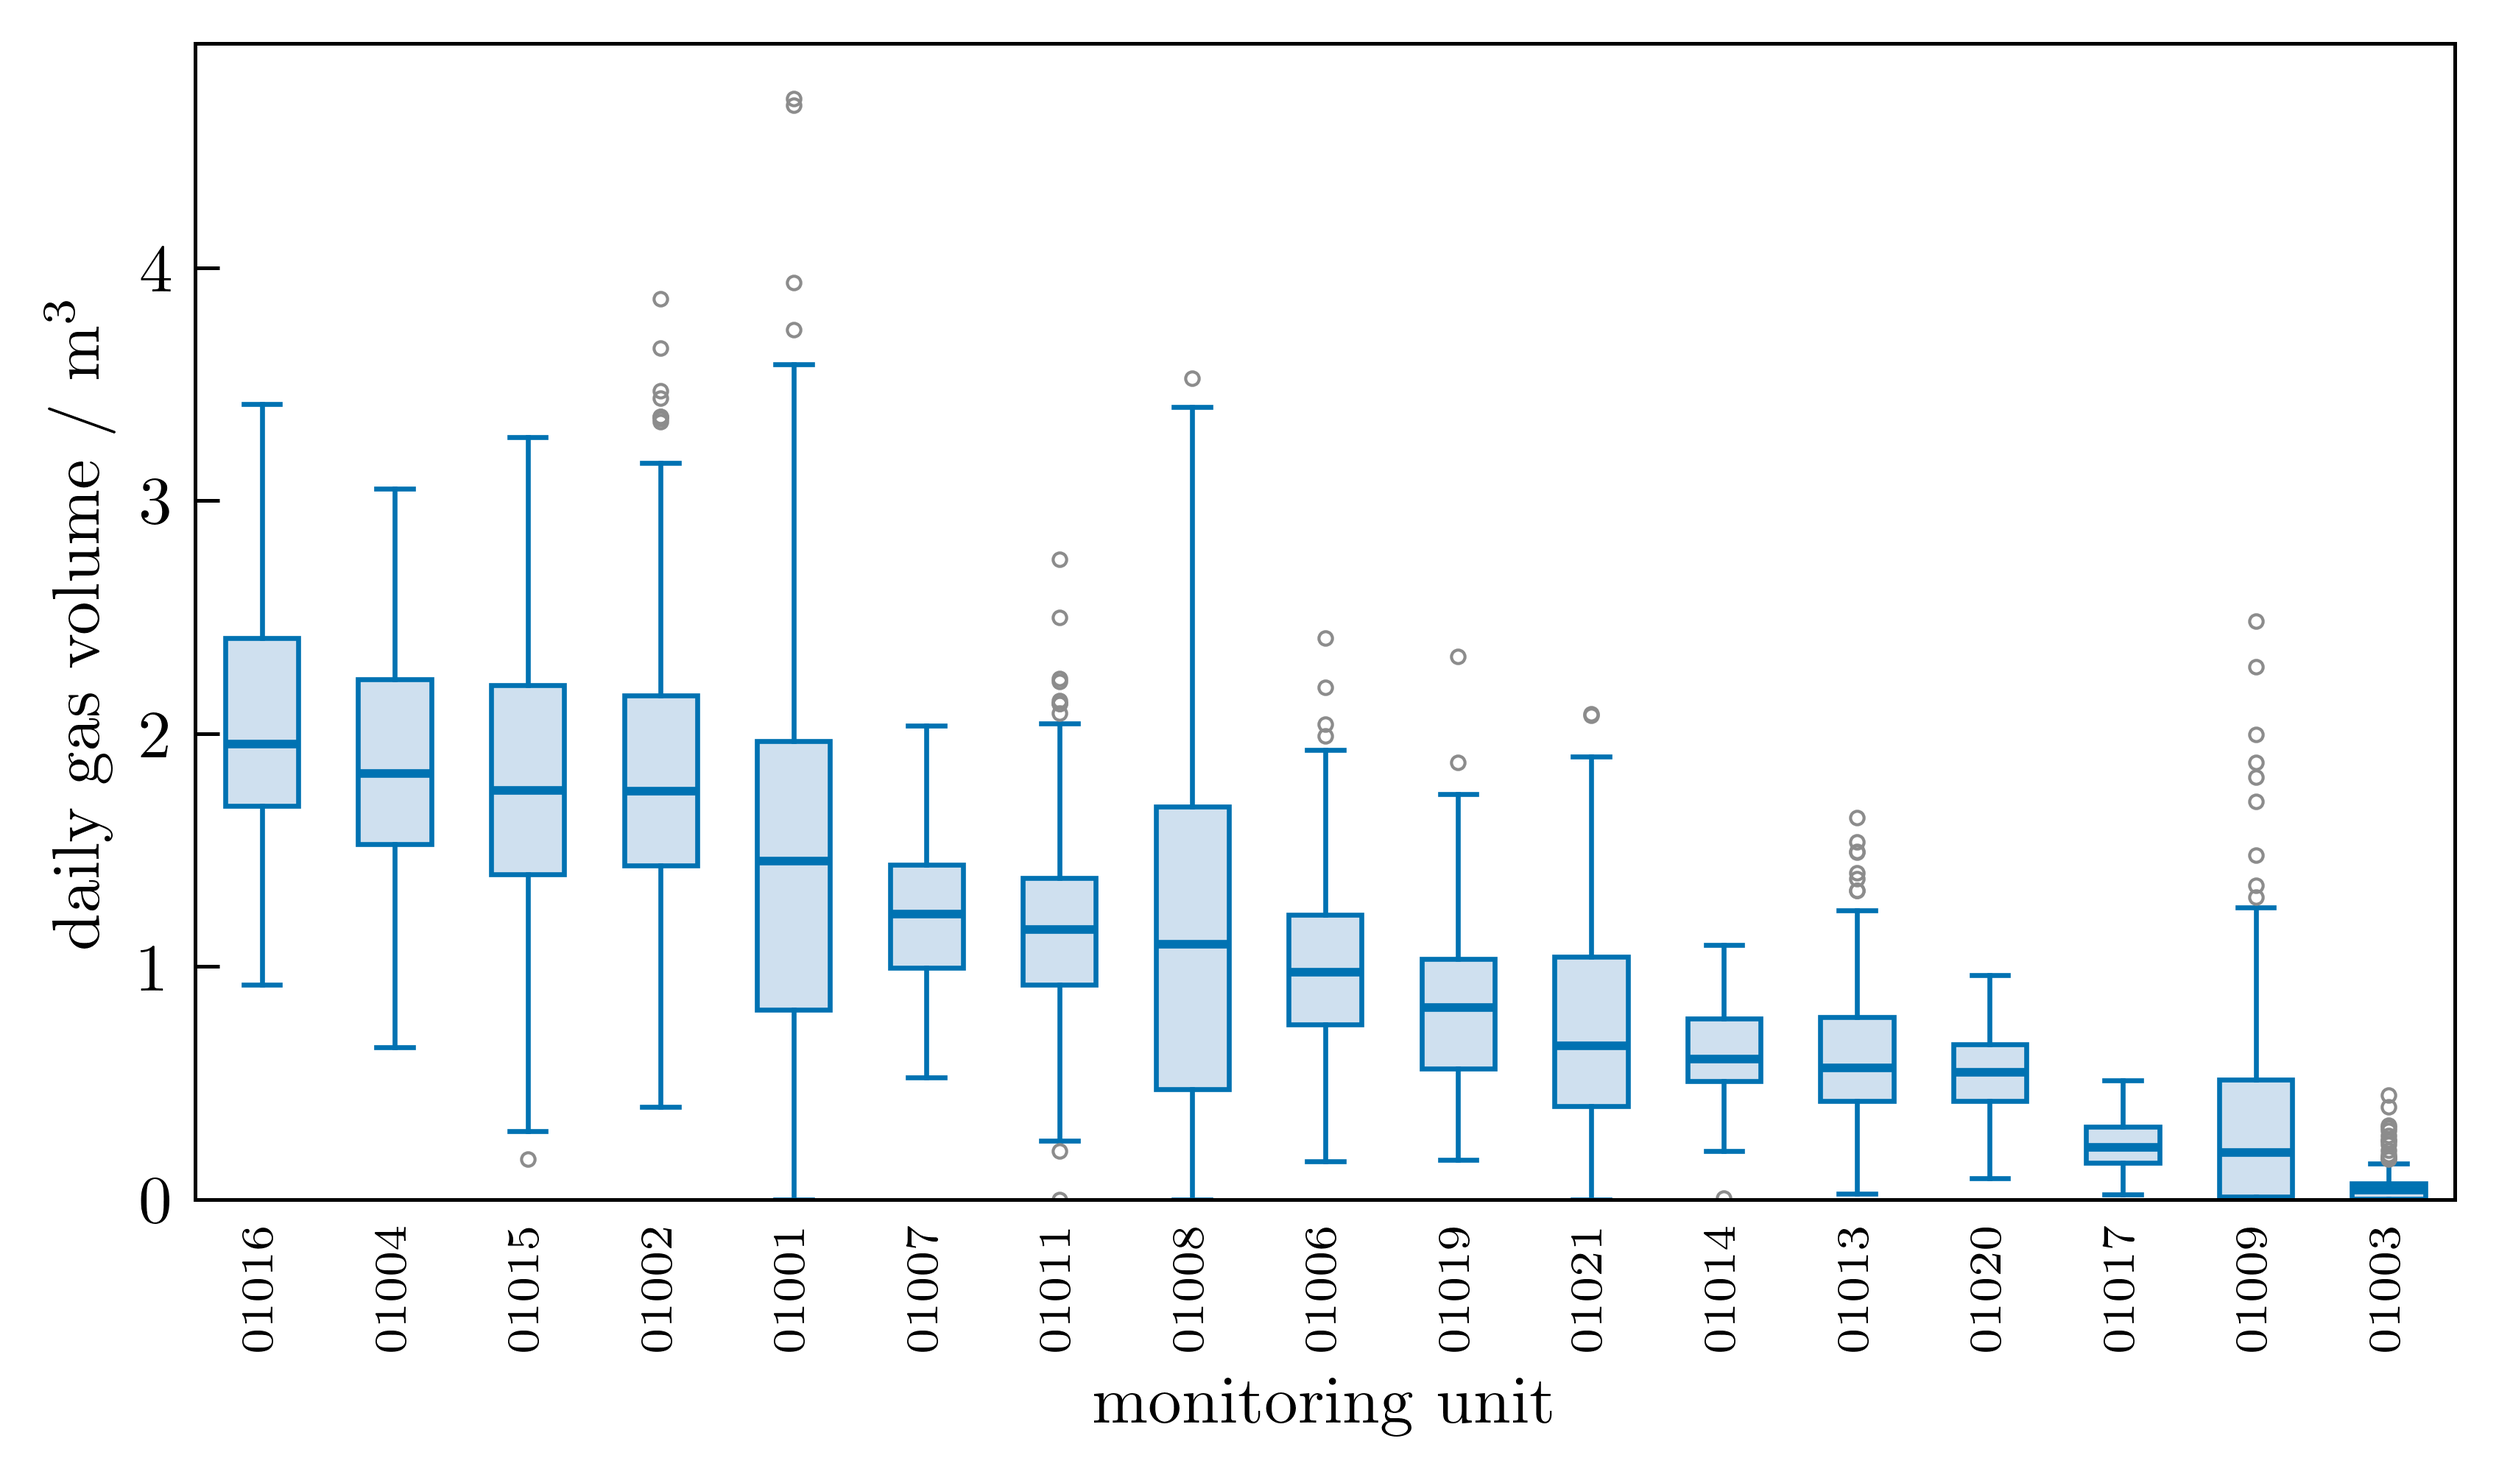
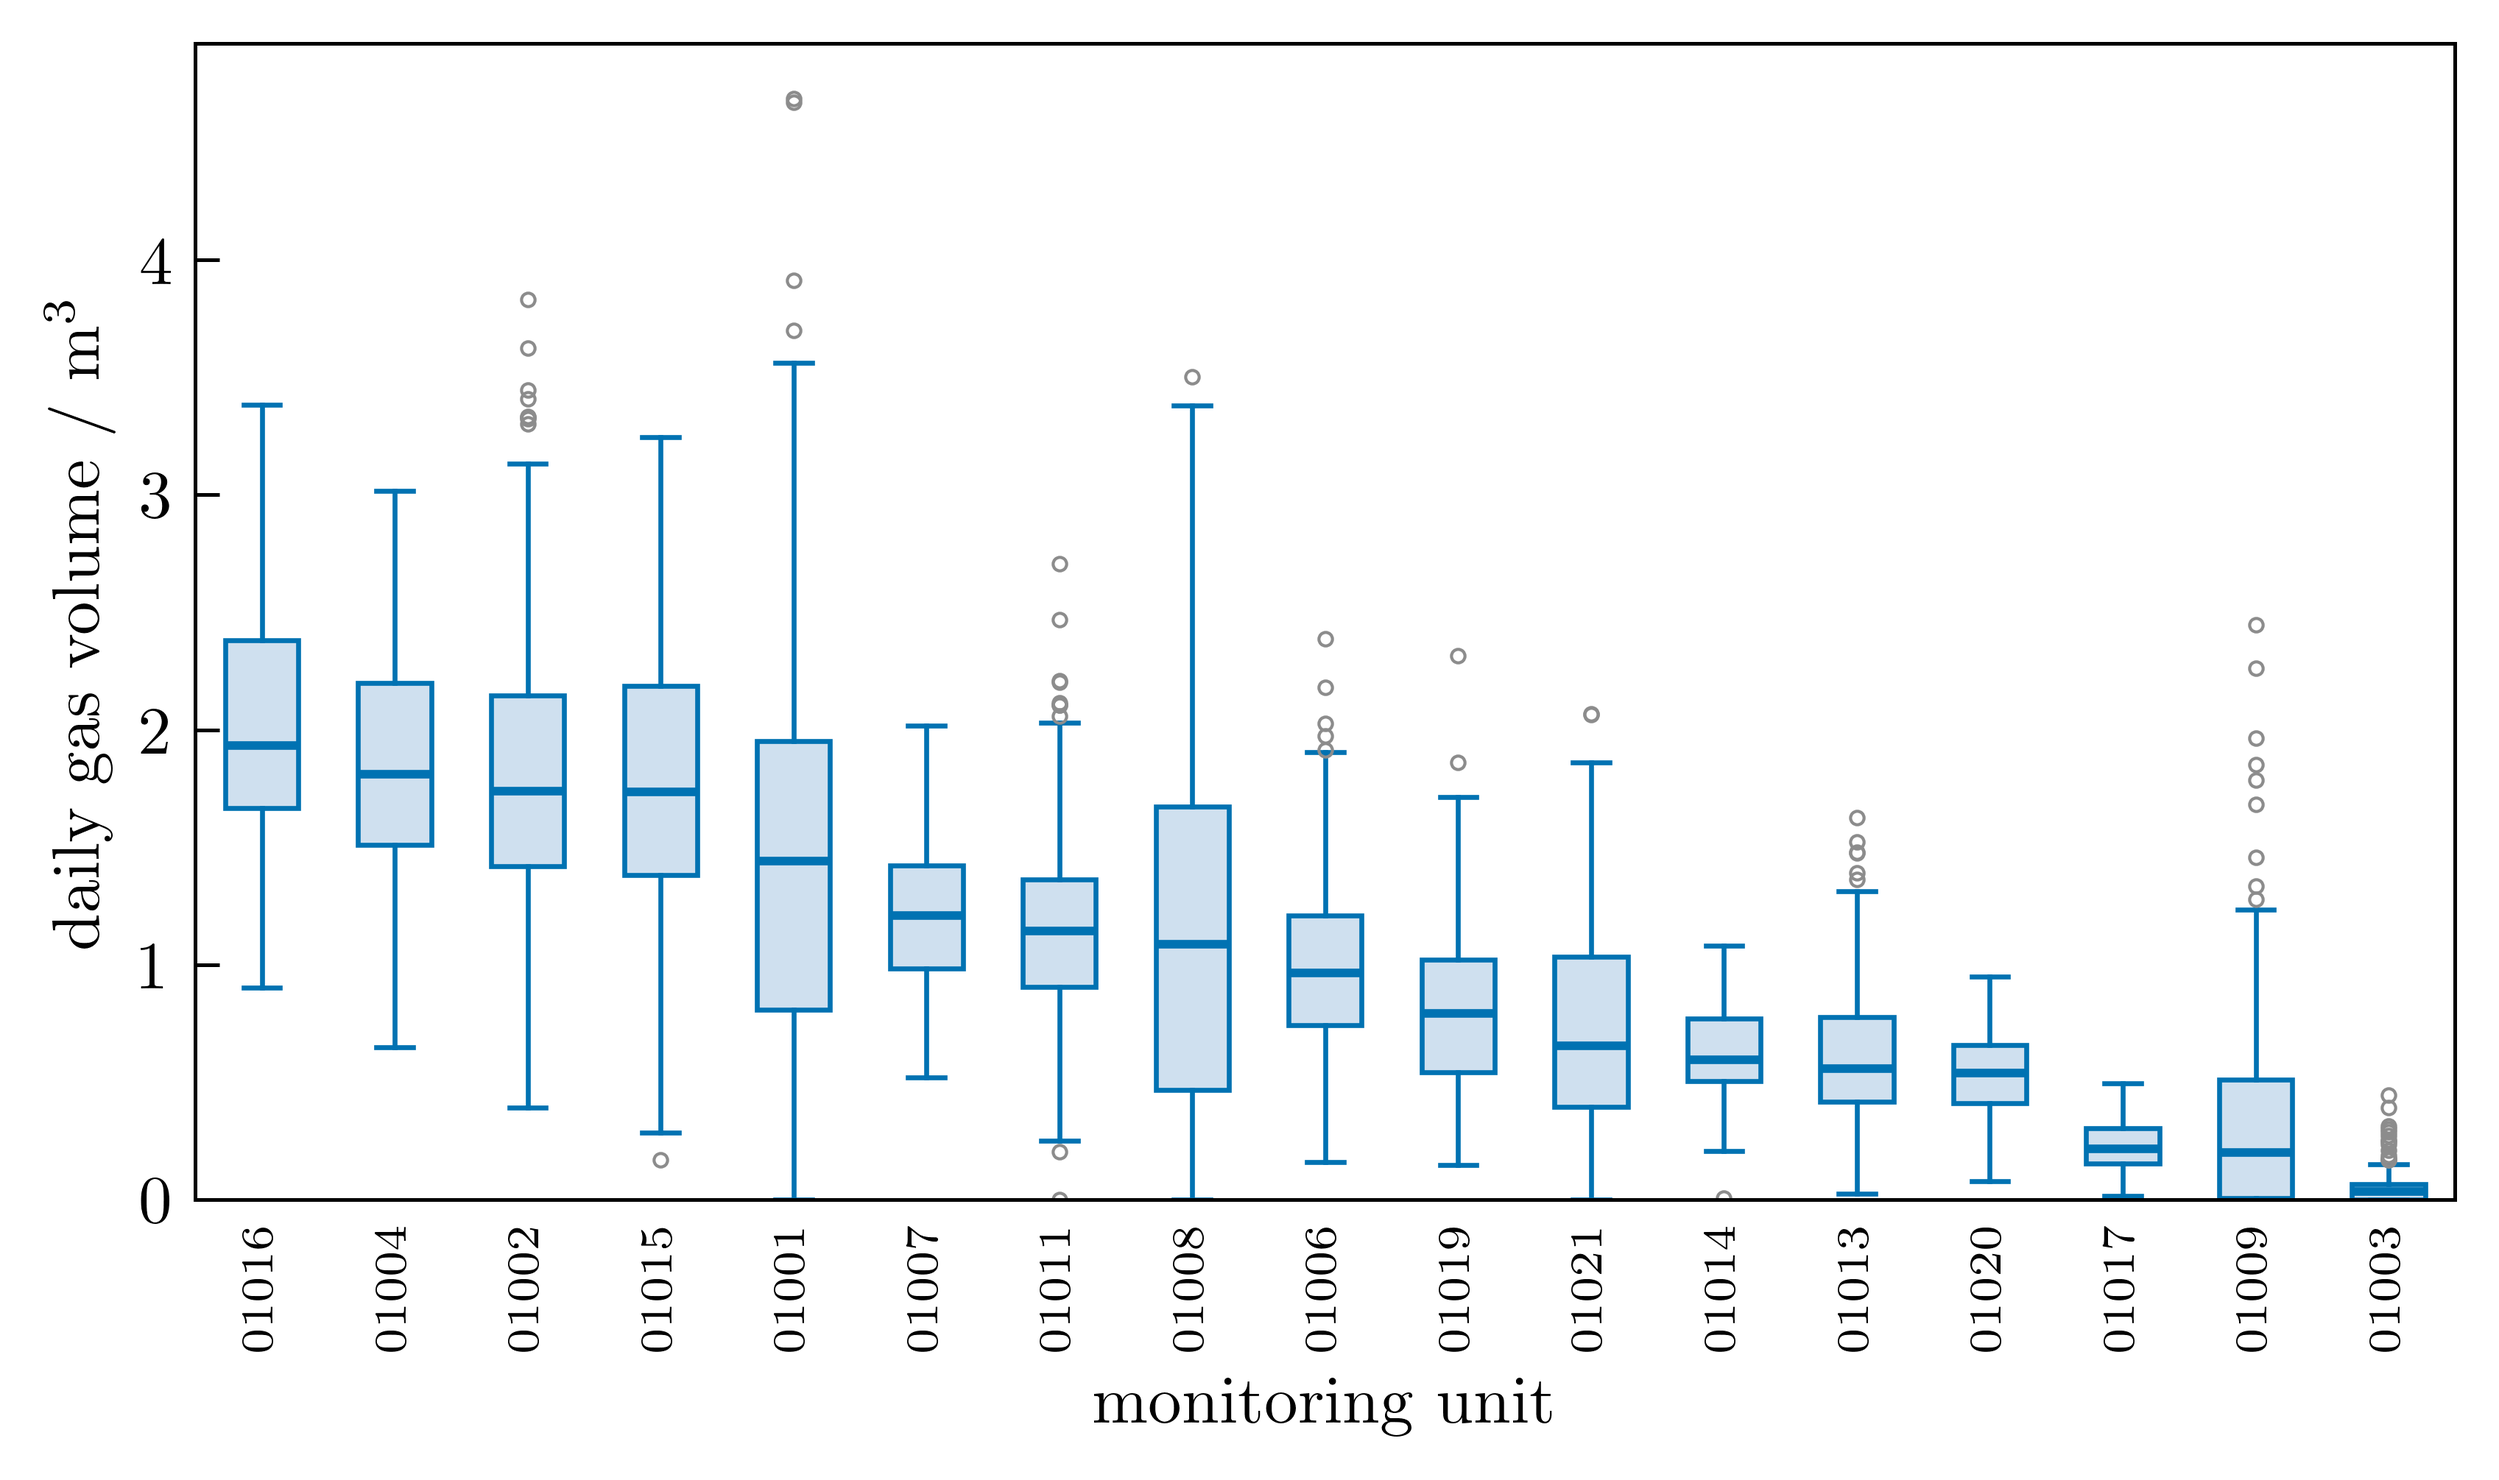
Count only flowing rows in daily volumes, fix the unmeasured-gas double count, release metadata for v1.3.0

diff --git a/make_stats.py b/make_stats.py
@@ -16,17 +16,20 @@ import numpy as np
 import pandas as pd
 import pyarrow.parquet as pq
 
-from make_figures import RAW, NOT_HOUSEHOLD, FAILED, PILOT_END, load_sensor_times, corrected, daily_volumes
+from make_figures import (RAW, NOT_HOUSEHOLD, FAILED, PILOT_END, NO_FLOW_MAX, load_sensor_times,
+                          corrected, daily_volumes)
 from validity import CLASSES, FLOW_MIN, classify
 
-# Gas not measured while the unit sleeps (220 s) and warms up (50 s). A gap of one
-# sleep cycle between state-0 rows (within WAKE_GAP_S) marks a wake-up; longer gaps
-# are data gaps. A wake-up into flowing gas after a quiet row is the start of use:
-# with starts uniform over the cycle, half of it is lost on average. A wake-up into
-# flowing gas after a flowing row means the unit slept during use, and the whole
-# cycle is lost. Both are valued at the flow of the first measured minute.
-CYCLE_S = 270
-MISSED_PER_START_S = CYCLE_S / 2
+# Gas not measured while the unit sleeps and warms up. A gap of one sleep cycle
+# between state-0 rows (within WAKE_GAP_S; in practice 300 s) marks a wake-up;
+# longer gaps are data gaps. Each row already stands for its own minute, so
+# gap - ROW_S seconds are unmeasured. A wake-up into flowing gas after a quiet row
+# is the start of use: with starts uniform over that time, half of it is lost on
+# average. A wake-up into flowing gas after a flowing row means the unit slept
+# during use, and all of it is lost. Both are valued at the flow of the first
+# measured minute. Single sleep cycles only: wake-ups after longer gaps are not
+# counted.
+ROW_S = 60
 WAKE_GAP_S = (120, 330)
 
 
@@ -37,8 +40,9 @@ def missed_litres(c: pd.DataFrame) -> dict:
     q = c["flow_zero_cal"]
     wake = gap.gt(WAKE_GAP_S[0]) & gap.le(WAKE_GAP_S[1]) & (q >= FLOW_MIN)
     during = wake & (q.shift() >= FLOW_MIN)
-    return {"start": float((q[wake & ~during] * MISSED_PER_START_S / 60).sum()),
-            "during": float((q[during] * CYCLE_S / 60).sum())}
+    unmeasured_min = (gap - ROW_S) / 60
+    return {"start": float((q * unmeasured_min / 2)[wake & ~during].sum()),
+            "during": float((q * unmeasured_min)[during].sum())}
 
 # Inclusion rule: a unit is "usable" if it was still returning sensor records in
 # the final week of the pilot. FAILED in make_figures.py must equal the set this
@@ -205,7 +209,7 @@ def main():
         c = c[c["timestamp"] <= PILOT_END]
         m = missed_litres(c)
         start += m["start"]; during += m["during"]
-        total += c["flow_zero_cal"].sum()
+        total += c.loc[c["flow_zero_cal"] >= NO_FLOW_MAX, "flow_zero_cal"].sum()
     use = start + during + total
     print(f"[Feasibility, Fig. 4] gas not measured (sleep and warm-up), estimated: {(start + during) / use:.1%} "
           f"of use; at the start of use {start / use:.1%}, while the unit slept during use {during / use:.1%}")

diff --git a/test_volumes.py b/test_volumes.py
@@ -3,7 +3,7 @@ import pandas as pd
 import pytest
 
 from make_figures import PILOT_END, daily_volume
-from make_stats import CYCLE_S, MISSED_PER_START_S, missed_litres
+from make_stats import missed_litres
 
 
 def _rows(times, flow):
@@ -24,18 +24,25 @@ def test_daily_volume_ignores_rows_after_pilot_end():
     assert daily_volume(c).sum() == 4.0
 
 
+def test_daily_volume_ignores_idle_rows_below_the_no_flow_gate():
+    # a zero-calibrated unit at its zero still reads ~0.02 L/min; that is not gas use
+    c = _rows(["2026-03-01T10:00Z", "2026-03-01T10:01Z", "2026-03-01T10:02Z"], [5.0, 0.03, 2.0])
+    assert daily_volume(c).sum() == 7.0
+
+
 def test_missed_start_counts_wake_ups_into_flowing_gas():
     t0 = pd.Timestamp("2026-03-01T12:00Z")
     c = _rows([t0, t0 + pd.Timedelta(seconds=300), t0 + pd.Timedelta(seconds=360)], [0.0, 6.0, 6.0])
-    # one wake-up (300 s gap) into 6 L/min after a quiet row; the next row is continuous measuring
-    assert missed_litres(c) == pytest.approx({"start": 6.0 * MISSED_PER_START_S / 60, "during": 0.0})
+    # 300 s gap; each row already stands for its own minute, so 240 s are unmeasured,
+    # and a start falls on average halfway through them: 120 s at 6 L/min
+    assert missed_litres(c) == pytest.approx({"start": 12.0, "during": 0.0})
 
 
-def test_sleep_during_use_loses_the_whole_cycle():
+def test_sleep_during_use_loses_the_unmeasured_part_of_the_gap():
     t0 = pd.Timestamp("2026-03-01T12:00Z")
     c = _rows([t0, t0 + pd.Timedelta(seconds=300)], [8.0, 6.0])
-    # gas flowed before and after the sleep, so it flowed through the whole 270 s
-    assert missed_litres(c) == pytest.approx({"start": 0.0, "during": 6.0 * CYCLE_S / 60})
+    # gas flowed before and after the sleep: the 240 s not covered by either row's minute
+    assert missed_litres(c) == pytest.approx({"start": 0.0, "during": 24.0})
 
 
 def test_missed_start_ignores_wake_ups_without_flow_and_long_gaps():

diff --git a/make_figures.py b/make_figures.py
@@ -238,14 +238,20 @@ def fig_use_spread():
     plt.close(fig)
 
 
+# Rows below the dataset's no-flow gate are idle: a unit at its zero still reads
+# about 0.02 L/min on the King's-law inverse, which is not gas use.
+NO_FLOW_MAX = 0.5   # L/min
+
+
 def daily_volume(c: pd.DataFrame) -> pd.Series:
     """Litres of gas per UTC day from one unit's state-0 rows.
 
     Rows are one minute apart while the unit measures, so each row's
-    ``flow_zero_cal`` [L/min] is a litre count. Days are UTC dates, the keys
-    validity.py classifies, so volumes join the valid days directly.
+    ``flow_zero_cal`` [L/min] is a litre count; rows below NO_FLOW_MAX are idle
+    and not counted. Days are UTC dates, the keys validity.py classifies, so
+    volumes join the valid days directly.
     """
-    c = c[c["timestamp"] <= PILOT_END]
+    c = c[(c["timestamp"] <= PILOT_END) & (c["flow_zero_cal"] >= NO_FLOW_MAX)]
     return c["flow_zero_cal"].groupby(c["timestamp"].dt.date).sum()
 
 

diff --git a/README.md b/README.md
@@ -59,8 +59,8 @@ household's normalised, shape-only use rhythm, not the cohort analysis.
 - **`Figure_4`** (`fig_volume`): daily gas volume per usable household on valid
   days, from the dataset's `flow_zero_cal` column (the flow with each unit's
   zero-flow offset removed; see the dataset's `docs/field_correction.md` §7).
-  One-minute measuring rows are summed as litres per UTC day, the same day key
-  `validity.py` uses. The volumes are a lower bound: gas flowing while the unit
+  One-minute measuring rows at or above 0.5 L/min (the dataset's no-flow gate)
+  are summed as litres per UTC day, the same day key `validity.py` uses. The volumes are a lower bound: gas flowing while the unit
   sleeps or warms up is not measured. `make_stats.py` estimates that share,
   separately for the start of use and for sleeps during use.
 - **`fig_diurnal`** (Figure 2): one household's normalised daily use rhythm.
